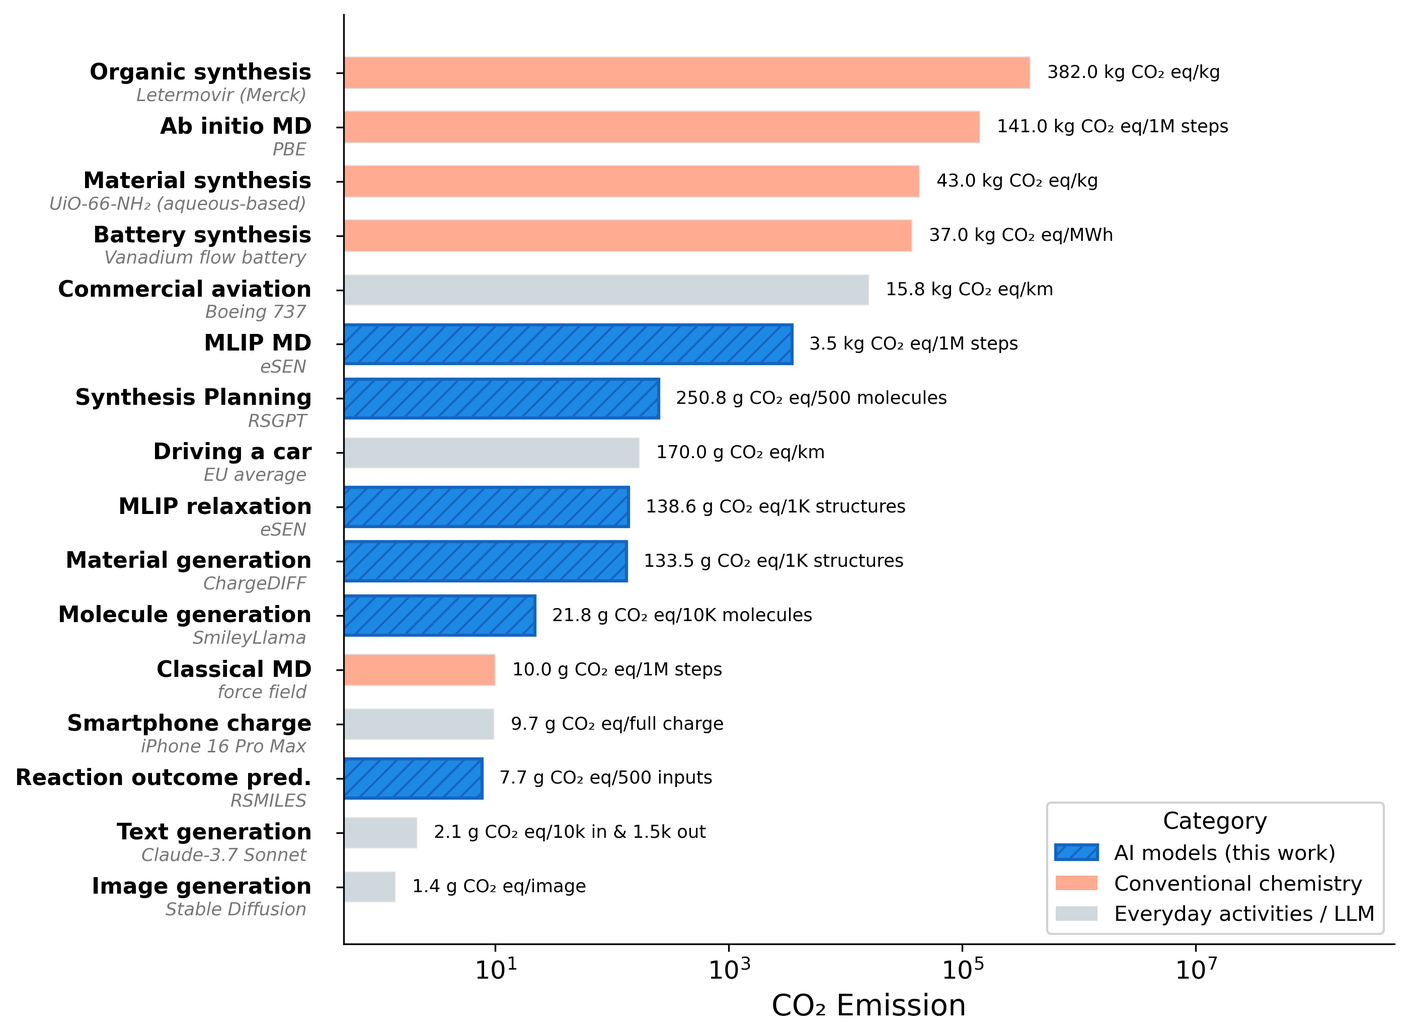
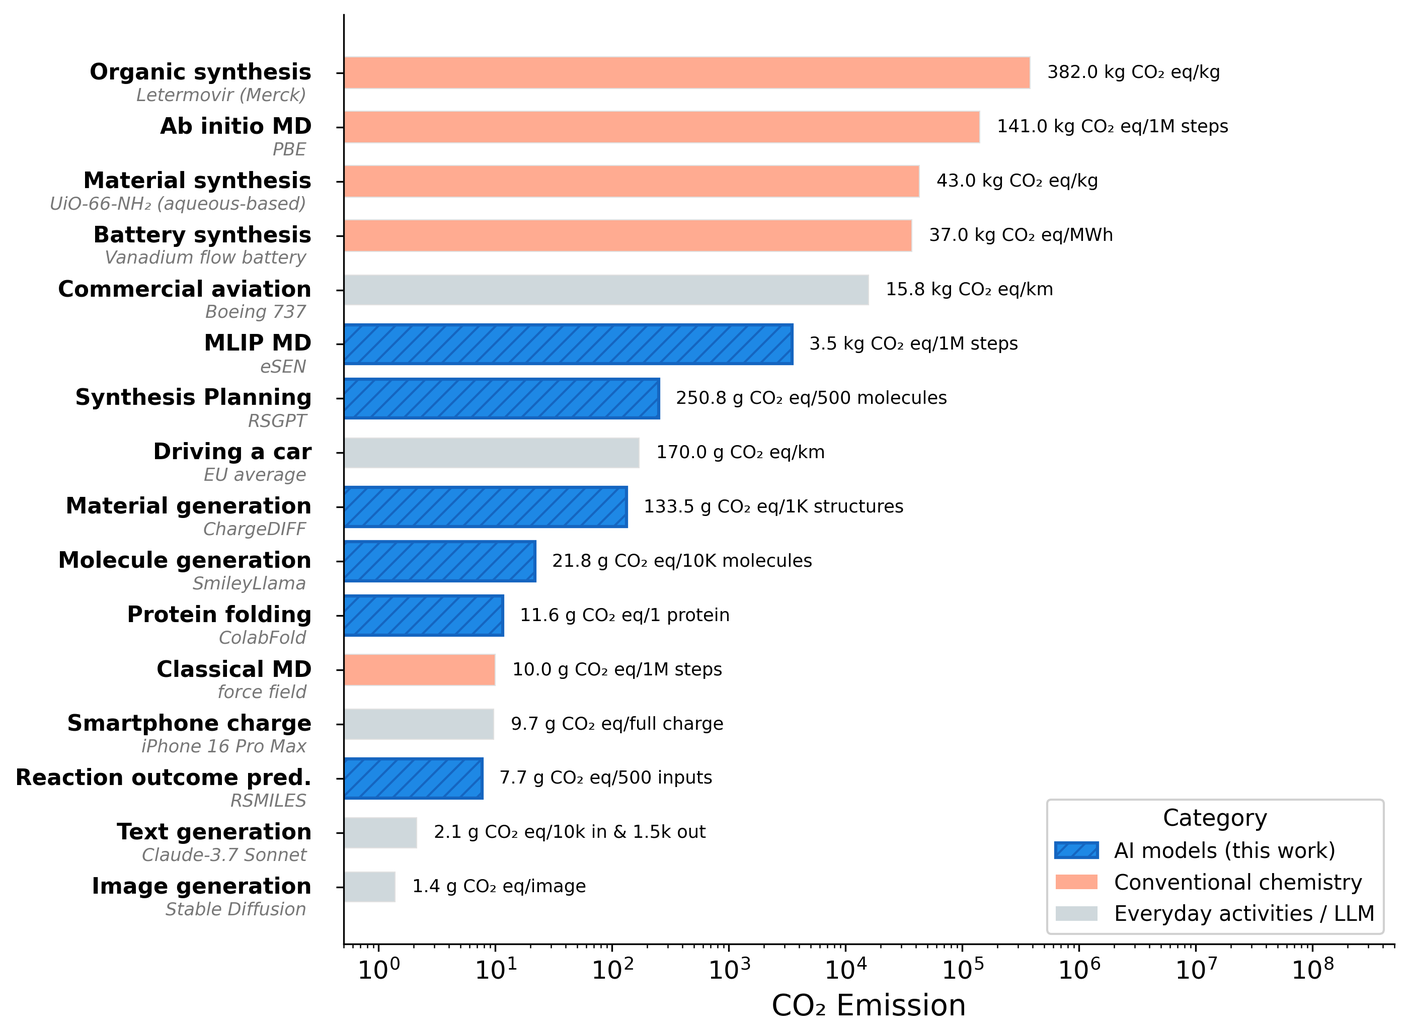
Add Protein Folding task to leaderboard, website, and figures
Integrates the protein-folding branch's 45-target CASP15/CASP16 benchmark
(8 models: AF2, ColabFold, OmegaFold, ESMFold, Chai-1, OpenFold, Boltz-2,
Protenix) as a 7th leaderboard task ("Folding").

Leaderboard data (synced across all three files per Rule 15):
- analysis/all_data.csv, docs/data.js, README.md (new "### 7. Protein
  Folding" section).
- Primary metric GDT-TS (%), secondary metric lDDT-Ca.
- Per-exp = per single protein; per-job = total over 45 targets.
- Model types reuse existing categories: GNN (AF2/ColabFold/OpenFold,
  Evoformer = graph attention), LM (ESMFold/OmegaFold protein LMs),
  Diffusion (Chai-1/Boltz-2/Protenix).

Website (docs/index.html):
- TASK_CONFIG gains a Folding entry (tab, GDT-TS (%)/lDDT-Ca columns).
- fmtMetric made value-based (sub-1 scores -> 3 decimals, else 2).
- CO2 reference chart: added Protein folding (11.6 g / 1 protein), removed
  MLIP relaxation, matching Fig 4.

Figures (plot_figures.py):
- Task grid (figs 1-3): StructOpt dropped, Folding added as 6th task,
  keeping the 6-panel layout. StructOpt stays in the leaderboard data.
- Fig 2 noname now labels baselines; widened so Forward labels don't overlap.
- Fig 6 (alt metrics) reworked into a Fig 2-style 2x3 grid + StructOpt (CPS)
  and Folding (lDDT-Ca) panels.
- Fig 4 family: Protein folding added (per single protein), MLIP relaxation
  removed; MLIP MD retained.
- Regenerated all figure variants.

preprint.tex intentionally left untracked.

diff --git a/docs/index.html b/docs/index.html
@@ -384,7 +384,7 @@
       <div class="stat-item">
         <div class="stat-icon">
           <svg width="15" height="15" fill="none" stroke="currentColor" stroke-width="2" viewBox="0 0 24 24" opacity=".7"><polygon points="12 2 2 7 12 12 22 7 12 2"/><polyline points="2 17 12 22 22 17"/><polyline points="2 12 12 17 22 12"/></svg>
-          <span class="stat-value" id="stat-tasks">6</span>
+          <span class="stat-value" id="stat-tasks">7</span>
         </div>
         <span class="stat-label">Tasks</span>
       </div>
@@ -502,6 +502,7 @@ const TASK_CONFIG = {
   MatGen:    { majorLabel: 'mSUN (%)',   minorLabel: 'SUN (%)',     color: '#2ca02c', desc: 'MP-20 · 1,000 structures',     job: '1 job = 1,000 structures' },
   StructOpt: { majorLabel: 'CPS',        minorLabel: null,          color: '#d62728', desc: 'WBM · 100 structures',         job: '1 job = 1,000 structures' },
   MDSim:     { majorLabel: 'MSD',        minorLabel: null,          color: '#9467bd', desc: 'LGPS · 75K steps × 3 seeds',  job: '1 job = 1M steps' },
+  Folding:   { majorLabel: 'GDT-TS (%)', minorLabel: 'lDDT-Cα',     color: '#8c564b', desc: 'CASP15/16 · 45 targets',      job: '1 job = 45 proteins' },
 };
 
 const ARCH_SYMBOLS = {
@@ -580,8 +581,8 @@ const GLOBAL_PARETO = computeParetoSet(ALL_DATA);
 function fmtMetric(v, task) {
   if (v === '' || v === null || v === undefined) return '—';
   const n = Number(v);
-  if (task === 'StructOpt' || task === 'MDSim') return n.toFixed(3);
-  return n.toFixed(2);
+  // Sub-1 scores (CPS, MSD, lDDT) → 3 decimals; percentages/counts → 2 decimals
+  return n < 1 ? n.toFixed(3) : n.toFixed(2);
 }
 
 function fmtTime(s) {
@@ -948,7 +949,7 @@ const REF_DATA = [
   { category: 'AI Chemical generation',  label: 'Material generation',      desc: 'MP-20 · 1K structures',         value: 270.40,  unit: '1K structures',      taskKey: 'MatGen' },
   { category: 'AI Chemical generation',  label: 'Molecule generation',      desc: 'ChEMBL 28 · 10K molecules',     value: 355.24,  unit: '10K molecules',      taskKey: 'MolGen' },
   { category: 'AI Synthesis prediction', label: 'Synthesis Planning',       desc: 'USPTO-50K · 500 molecules',     value: 403.45,  unit: '500 molecules',      taskKey: 'Retro' },
-  { category: 'AI Structure Opt',        label: 'MLIP relaxation',          desc: 'WBM · 1K structures',           value: 138.6,   unit: '1K structures',      taskKey: 'StructOpt' },
+  { category: 'AI Protein folding',      label: 'Protein folding',          desc: 'CASP15/16 · 1 protein',         value: 11.60,   unit: '1 protein',          taskKey: 'Folding' },
   { category: 'AI MD simulation',        label: 'MLIP MD',                  desc: 'LGPS · 1M steps',               value: 3486,    unit: '1M steps',           taskKey: 'MDSim' },
   { category: 'Everyday activities',     label: 'Commercial aviation',      desc: 'Boeing 737',                    value: 15800,   unit: 'km',                 taskKey: null },
   { category: 'Chemical synthesis',      label: 'Battery synthesis',        desc: 'Vanadium flow battery',         value: 37000,   unit: 'MWh',                taskKey: null },
@@ -961,13 +962,13 @@ const REF_CAT_COLORS = {
   'LLM inference':           '#CFD8DC',
   'AI Synthesis prediction': '#1E88E5',
   'AI Chemical generation':  '#1E88E5',
-  'AI Structure Opt':        '#1E88E5',
+  'AI Protein folding':      '#1E88E5',
   'AI MD simulation':        '#1E88E5',
   'Everyday activities':     '#CFD8DC',
   'Chemical simulation':     '#FFAB91',
   'Chemical synthesis':      '#FFAB91',
 };
-const AI_CATEGORIES = new Set(['AI Synthesis prediction', 'AI Chemical generation', 'AI Structure Opt', 'AI MD simulation']);
+const AI_CATEGORIES = new Set(['AI Synthesis prediction', 'AI Chemical generation', 'AI Protein folding', 'AI MD simulation']);
 
 /* ──────────────────────────────────────────────────────
    RENDER CHART — switches based on active tab

diff --git a/docs/data.js b/docs/data.js
@@ -47,4 +47,12 @@ const ALL_DATA = [
   { task: "MDSim", year: 2025, venue: "arXiv", model: "DPA3", modelType: "GNN", modelSize: "4.81M", major_metric: 0.508, minor_metric: "", inference_time_per_exp: 2087, CO2_per_exp: 38.45, CO2_per_job: 1538, baseline: false },
   { task: "MDSim", year: 2025, venue: "arXiv", model: "Nequix", modelType: "GNN", modelSize: "708K", major_metric: 0.203, minor_metric: "", inference_time_per_exp: 736, CO2_per_exp: 17.13, CO2_per_job: 685, baseline: false },
   { task: "MDSim", year: 2025, venue: "arXiv", model: "eSEN", modelType: "GNN", modelSize: "30.1M", major_metric: 0.720, minor_metric: "", inference_time_per_exp: 2780, CO2_per_exp: 87.14, CO2_per_job: 3486, baseline: false },
+  { task: "Folding", year: 2021, venue: "Nature", model: "AF2", modelType: "GNN", modelSize: "93.2M", major_metric: 59.15, minor_metric: 0.868, inference_time_per_exp: 1729.6, CO2_per_exp: 46.73, CO2_per_job: 2103.0, baseline: true },
+  { task: "Folding", year: 2022, venue: "Nat. Methods", model: "ColabFold", modelType: "GNN", modelSize: "93.2M", major_metric: 60.96, minor_metric: 0.876, inference_time_per_exp: 669.5, CO2_per_exp: 11.60, CO2_per_job: 522.2, baseline: false },
+  { task: "Folding", year: 2022, venue: "bioRxiv", model: "OmegaFold", modelType: "LM", modelSize: "795M", major_metric: 47.18, minor_metric: 0.770, inference_time_per_exp: 123.0, CO2_per_exp: 4.00, CO2_per_job: 180.1, baseline: false },
+  { task: "Folding", year: 2023, venue: "Science", model: "ESMFold", modelType: "LM", modelSize: "693M", major_metric: 52.36, minor_metric: 0.811, inference_time_per_exp: 363.2, CO2_per_exp: 5.27, CO2_per_job: 237.0, baseline: false },
+  { task: "Folding", year: 2024, venue: "bioRxiv", model: "Chai-1", modelType: "Diffusion", modelSize: "316M", major_metric: 48.79, minor_metric: 0.798, inference_time_per_exp: 1416.4, CO2_per_exp: 19.83, CO2_per_job: 892.4, baseline: false },
+  { task: "Folding", year: 2024, venue: "Nat. Methods", model: "OpenFold", modelType: "GNN", modelSize: "93.2M", major_metric: 60.84, minor_metric: 0.875, inference_time_per_exp: 596.8, CO2_per_exp: 10.61, CO2_per_job: 477.6, baseline: false },
+  { task: "Folding", year: 2025, venue: "bioRxiv", model: "Boltz-2", modelType: "Diffusion", modelSize: "521M", major_metric: 51.82, minor_metric: 0.765, inference_time_per_exp: 1180.8, CO2_per_exp: 17.70, CO2_per_job: 796.5, baseline: false },
+  { task: "Folding", year: 2025, venue: "bioRxiv", model: "Protenix", modelType: "Diffusion", modelSize: "368M", major_metric: 57.50, minor_metric: 0.871, inference_time_per_exp: 612.3, CO2_per_exp: 9.83, CO2_per_job: 442.3, baseline: false },
 ];

diff --git a/analysis/plot_figures.py b/analysis/plot_figures.py
@@ -27,7 +27,9 @@ from adjustText import adjust_text
 OUT_DIR = 'analysis/figures'
 os.makedirs(OUT_DIR, exist_ok=True)
 
-TASK_ORDER = ['MatGen', 'MolGen', 'Retro', 'Forward', 'StructOpt', 'MDSim']
+# StructOpt is kept in the leaderboard data (all_data.csv / data.js / README) but
+# omitted from the task-grid figures (Figs 1-3); MDSim is the 5th task, Folding the 6th.
+TASK_ORDER = ['MatGen', 'MolGen', 'Retro', 'Forward', 'MDSim', 'Folding']
 
 TASK_COLORS = {
     'MatGen':    '#2ca02c',
@@ -36,6 +38,7 @@ TASK_COLORS = {
     'Forward':   '#ff7f0e',
     'StructOpt': '#d62728',
     'MDSim':     '#9467bd',
+    'Folding':   '#8c564b',
 }
 
 TASK_PERF_LABEL = {
@@ -45,6 +48,7 @@ TASK_PERF_LABEL = {
     'Forward': 'Top-3 Acc (%)',
     'StructOpt': 'CPS',
     'MDSim': 'MSD',
+    'Folding': 'GDT-TS (%)',
 }
 
 ARCH_MARKERS = {
@@ -70,7 +74,7 @@ ref_data_raw = [
     ('AI Chemical generation',   'Molecule generation',      'MolGen',     'DeFoG',                       355.2,  '10K molecules'),
     ('AI Synthesis prediction',  'Synthesis Planning',       'Retro',      'RetroBridge',                 403,     '500 molecules'),
     ('AI MD simulation',         'MLIP MD',                  'MDSim',      'eSEN',                        3486,    '1M steps'),
-    ('AI Structure Opt',         'MLIP relaxation',          'StructOpt',  'eSEN',                         139,    '1K structures'),
+    ('AI Protein folding',       'Protein folding',          'Folding',    'ColabFold',                   11.60,  '1 protein'),
     ('Everyday activities',      'Commercial aviation',      None,         'Boeing 737',                  15800,   'km'),
     ('Chemical synthesis',       'Battery synthesis',        None,         'Vanadium flow battery',       37000,   'MWh'),
     ('Chemical synthesis',       'Material synthesis',       None,         'UiO-66-NH₂ (aqueous-based)',  43000,   'kg'),
@@ -87,7 +91,7 @@ REF_CATEGORY_COLORS = {
     'Chemical synthesis':        '#E53935',   # red
     'AI Chemical generation':    '#2ca02c',   # green (= MatGen)
     'AI Synthesis prediction':   '#ff7f0e',   # orange (= Forward)
-    'AI Structure Opt':          '#d62728',   # red-orange (= StructOpt)
+    'AI Protein folding':        '#8c564b',   # brown (= Folding)
     'AI MD simulation':          '#9467bd',   # purple (= MDSim)
 }
 
@@ -95,7 +99,7 @@ REF_CATEGORY_COLORS = {
 REF_LEGEND_ORDER = [
     'Everyday activities', 'LLM inference', 'Chemical simulation',
     'Chemical synthesis', 'AI Chemical generation', 'AI Synthesis prediction',
-    'AI Structure Opt', 'AI MD simulation',
+    'AI Protein folding', 'AI MD simulation',
 ]
 
 
@@ -319,7 +323,7 @@ def plot_fig2(df, co2_col='CO2_per_job', co2_label='log₁₀(CO₂/job)', nonam
     If noname=True, omits per-point labels EXCEPT for models on the Pareto front,
     and saves to *_noname.png.
     """
-    fig, axes = plt.subplots(2, 3, figsize=(20, 14))
+    fig, axes = plt.subplots(2, 3, figsize=(27, 14))
     axes = axes.flatten()
 
     for ax, task in zip(axes, TASK_ORDER):
@@ -395,8 +399,8 @@ def plot_fig2(df, co2_col='CO2_per_job', co2_label='log₁₀(CO₂/job)', nonam
             ax.scatter(row['log_co2_ratio'], row['delta_perf_pct'],
                        color=TASK_COLORS[task], marker=m, s=sz,
                        edgecolors=ec, linewidths=lw, zorder=4)
-            # In noname mode, only label models on the Pareto front
-            if noname and row['model'] not in pareto_models:
+            # In noname mode, only label models on the Pareto front (plus the baseline)
+            if noname and row['model'] not in pareto_models and not is_base:
                 continue
             label = f"{row['model']} ({row['year']})"
             pos = positions.get(row['model'], None)
@@ -811,7 +815,7 @@ def plot_fig4(df, highlight_ai=True):
         'Retro':     'Retro',
         'MolGen':    'MolGen',
         'MatGen':    'MatGen',
-        'StructOpt': 'StructOpt',
+        'Folding':   'Folding',
         'MDSim':     'MDSim',
     }
     worst_pareto = {}  # task -> (model_name, co2_per_job)
@@ -822,7 +826,8 @@ def plot_fig4(df, highlight_ai=True):
         pareto_models = _compute_pareto(grp)
         pareto_grp = grp[grp['model'].isin(pareto_models)]
         worst = pareto_grp.loc[pareto_grp['CO2_per_job'].idxmax()]
-        worst_pareto[key] = (worst['model'], worst['CO2_per_job'])
+        # Protein folding runs one protein at a time → report per-protein CO2
+        worst_pareto[key] = (worst['model'], worst['CO2_per_exp' if key == 'Folding' else 'CO2_per_job'])
 
     # (category, main_label, task_key, fallback_desc, fallback_co2, unit)
     # task_key=None for non-AI entries
@@ -844,7 +849,7 @@ def plot_fig4(df, highlight_ai=True):
     values      = [d[3] for d in ref_data]
     units       = [d[4] for d in ref_data]
     AI_CATEGORIES = {'AI Chemical generation', 'AI Synthesis prediction',
-                     'AI Structure Opt', 'AI MD simulation'}
+                     'AI Protein folding', 'AI MD simulation'}
     CHEM_CATEGORIES = {'Chemical simulation', 'Chemical synthesis'}
 
     if highlight_ai:
@@ -929,7 +934,7 @@ def plot_fig4b(df):
         'Retro':     'Retro',
         'MolGen':    'MolGen',
         'MatGen':    'MatGen',
-        'StructOpt': 'StructOpt',
+        'Folding':   'Folding',
         'MDSim':     'MDSim',
     }
     worst_pareto = {}
@@ -940,7 +945,8 @@ def plot_fig4b(df):
         pareto_models = _compute_pareto(grp)
         pareto_grp = grp[grp['model'].isin(pareto_models)]
         worst = pareto_grp.loc[pareto_grp['CO2_per_job'].idxmax()]
-        worst_pareto[key] = (worst['model'], worst['CO2_per_job'])
+        # Protein folding runs one protein at a time → report per-protein CO2
+        worst_pareto[key] = (worst['model'], worst['CO2_per_exp' if key == 'Folding' else 'CO2_per_job'])
 
     # ── Second-best models (user-specified) ──
     second_best_names = {
@@ -948,14 +954,14 @@ def plot_fig4b(df):
         'Retro':     'LocalRetro',
         'MolGen':    'REINVENT4',
         'MatGen':    'DiffCSP',
-        'StructOpt': 'NequIP',
+        'Folding':   'OpenFold',
         'MDSim':     'SevenNet',
     }
     second_best = {}
     for task, model_name in second_best_names.items():
         row = df[(df['task'] == task) & (df['model'] == model_name)]
         if not row.empty:
-            co2 = row.iloc[0]['CO2_per_job']
+            co2 = row.iloc[0]['CO2_per_exp' if task == 'Folding' else 'CO2_per_job']
             second_best[task] = (model_name, co2)
 
     # Resolve worst-Pareto entries
@@ -977,7 +983,7 @@ def plot_fig4b(df):
     units       = [d[5] for d in ref_data]
 
     AI_CATEGORIES = {'AI Chemical generation', 'AI Synthesis prediction',
-                     'AI Structure Opt', 'AI MD simulation'}
+                     'AI Protein folding', 'AI MD simulation'}
 
     # ── Colour palette ──
     ai_color       = '#1E88E5'
@@ -1079,7 +1085,7 @@ def plot_fig4_combined(df):
     # ── Compute worst Pareto per task (same as fig4 / fig4b) ──
     task_map = {
         'Forward': 'Forward', 'Retro': 'Retro', 'MolGen': 'MolGen',
-        'MatGen': 'MatGen', 'StructOpt': 'StructOpt', 'MDSim': 'MDSim',
+        'MatGen': 'MatGen', 'Folding': 'Folding', 'MDSim': 'MDSim',
     }
     worst_pareto = {}
     for task, key in task_map.items():
@@ -1089,19 +1095,20 @@ def plot_fig4_combined(df):
         pareto_models = _compute_pareto(grp)
         pareto_grp = grp[grp['model'].isin(pareto_models)]
         worst = pareto_grp.loc[pareto_grp['CO2_per_job'].idxmax()]
-        worst_pareto[key] = (worst['model'], worst['CO2_per_job'])
+        # Protein folding runs one protein at a time → report per-protein CO2
+        worst_pareto[key] = (worst['model'], worst['CO2_per_exp' if key == 'Folding' else 'CO2_per_job'])
 
     # ── Second-best models (mirror fig4b) ──
     second_best_names = {
         'Forward': 'LocalTransform', 'Retro': 'LocalRetro',
         'MolGen': 'REINVENT4', 'MatGen': 'DiffCSP',
-        'StructOpt': 'NequIP', 'MDSim': 'SevenNet',
+        'Folding': 'OpenFold', 'MDSim': 'SevenNet',
     }
     second_best = {}
     for task, model_name in second_best_names.items():
         row = df[(df['task'] == task) & (df['model'] == model_name)]
         if not row.empty:
-            second_best[task] = (model_name, row.iloc[0]['CO2_per_job'])
+            second_best[task] = (model_name, row.iloc[0]['CO2_per_exp' if task == 'Folding' else 'CO2_per_job'])
 
     # ── Resolve ref_data (carrying task_key for fig4b overlay) ──
     ref_data = []
@@ -1121,7 +1128,7 @@ def plot_fig4_combined(df):
     units       = [d[5] for d in ref_data]
 
     AI_CATEGORIES = {'AI Chemical generation', 'AI Synthesis prediction',
-                     'AI Structure Opt', 'AI MD simulation'}
+                     'AI Protein folding', 'AI MD simulation'}
     CHEM_CATEGORIES = {'Chemical simulation', 'Chemical synthesis'}
 
     # ── Palette ──
@@ -1252,7 +1259,7 @@ def plot_fig4_combined_horizontal(df):
     # ── Compute worst Pareto per task (same as fig4 / fig4b) ──
     task_map = {
         'Forward': 'Forward', 'Retro': 'Retro', 'MolGen': 'MolGen',
-        'MatGen': 'MatGen', 'StructOpt': 'StructOpt', 'MDSim': 'MDSim',
+        'MatGen': 'MatGen', 'Folding': 'Folding', 'MDSim': 'MDSim',
     }
     worst_pareto = {}
     for task, key in task_map.items():
@@ -1262,19 +1269,20 @@ def plot_fig4_combined_horizontal(df):
         pareto_models = _compute_pareto(grp)
         pareto_grp = grp[grp['model'].isin(pareto_models)]
         worst = pareto_grp.loc[pareto_grp['CO2_per_job'].idxmax()]
-        worst_pareto[key] = (worst['model'], worst['CO2_per_job'])
+        # Protein folding runs one protein at a time → report per-protein CO2
+        worst_pareto[key] = (worst['model'], worst['CO2_per_exp' if key == 'Folding' else 'CO2_per_job'])
 
     # ── Second-best models (mirror fig4b) ──
     second_best_names = {
         'Forward': 'LocalTransform', 'Retro': 'LocalRetro',
         'MolGen': 'REINVENT4', 'MatGen': 'DiffCSP',
-        'StructOpt': 'NequIP', 'MDSim': 'SevenNet',
+        'Folding': 'OpenFold', 'MDSim': 'SevenNet',
     }
     second_best = {}
     for task, model_name in second_best_names.items():
         row = df[(df['task'] == task) & (df['model'] == model_name)]
         if not row.empty:
-            second_best[task] = (model_name, row.iloc[0]['CO2_per_job'])
+            second_best[task] = (model_name, row.iloc[0]['CO2_per_exp' if task == 'Folding' else 'CO2_per_job'])
 
     # ── Resolve ref_data (carrying task_key for fig4b overlay) ──
     ref_data = []
@@ -1294,7 +1302,7 @@ def plot_fig4_combined_horizontal(df):
     units       = [d[5] for d in ref_data]
 
     AI_CATEGORIES = {'AI Chemical generation', 'AI Synthesis prediction',
-                     'AI Structure Opt', 'AI MD simulation'}
+                     'AI Protein folding', 'AI MD simulation'}
     CHEM_CATEGORIES = {'Chemical simulation', 'Chemical synthesis'}
 
     # ── Palette ──
@@ -1489,20 +1497,25 @@ MOLGEN_VUNS = {
     'DiGress': 81.18, 'REINVENT4': 85.44, 'SmileyLlama': 85.16, 'DeFoG': 81.73
 }
 
-ALT_TASK_ORDER = ['MatGen', 'MolGen', 'Retro', 'Forward']
+# StructOpt is the MLIP-family alternative to MDSim (its CPS metric); Folding's
+# alternative metric is lDDT-Cα (vs. its primary GDT-TS (%) in Figs 1-3).
+ALT_TASK_ORDER = ['MatGen', 'MolGen', 'Retro', 'Forward', 'StructOpt', 'Folding']
 ALT_LABELS = {
     'MatGen': 'SUN (%)', 'MolGen': 'VUNS (%)',
     'Retro': 'Top-10 Acc (%)', 'Forward': 'Top-1 Acc (%)',
+    'StructOpt': 'CPS', 'Folding': 'lDDT-Cα',
 }
 
 
 def plot_fig6(df, co2_col='CO2_per_job', co2_label='log₁₀(CO₂/job)', noname=False):
-    """Pareto plots using alternative metrics for 4 tasks.
+    """Pareto plots using alternative metrics, laid out like Fig 2 (2×3).
 
-    If noname=True, omits per-point labels EXCEPT for models on the Pareto front,
-    and saves to *_noname.png.
+    Includes the MLIP-family StructOpt panel (CPS) and the Folding panel
+    (TM-score). If noname=True, omits per-point labels EXCEPT for models on the
+    Pareto front (plus the baseline), and saves to *_noname.png.
     """
-    fig, axes = plt.subplots(1, 4, figsize=(28, 7))
+    fig, axes = plt.subplots(2, 3, figsize=(27, 14))
+    axes = axes.flatten()
 
     # Add alt_perf column
     df = df.copy()
@@ -1513,6 +1526,10 @@ def plot_fig6(df, co2_col='CO2_per_job', co2_label='log₁₀(CO₂/job)', nonam
             df.at[idx, 'alt_perf'] = MOLGEN_VUNS[model]
         elif task in ALT_METRICS and model in ALT_METRICS[task]:
             df.at[idx, 'alt_perf'] = ALT_METRICS[task][model]
+        elif task == 'StructOpt':
+            df.at[idx, 'alt_perf'] = row['major_metric']   # CPS
+        elif task == 'Folding':
+            df.at[idx, 'alt_perf'] = row['minor_metric']   # lDDT-Cα
 
     for ax, task in zip(axes, ALT_TASK_ORDER):
         grp = df[(df['task'] == task) & df['alt_perf'].notna()].copy()
@@ -1568,8 +1585,8 @@ def plot_fig6(df, co2_col='CO2_per_job', co2_label='log₁₀(CO₂/job)', nonam
             ax.scatter(row['log_co2_ratio'], row['delta_alt_pct'],
                        color=TASK_COLORS[task], marker=m, s=marker_size(m),
                        edgecolors=ec, linewidths=lw, zorder=4)
-            # In noname mode, only label models on the Pareto front
-            if noname and row['model'] not in pareto_models:
+            # In noname mode, only label models on the Pareto front (plus the baseline)
+            if noname and row['model'] not in pareto_models and not is_base:
                 continue
             label = f"{row['model']} ({row['year']})"
             tx6, ty6 = row['log_co2_ratio'], row['delta_alt_pct']
@@ -1605,8 +1622,8 @@ def plot_fig6(df, co2_col='CO2_per_job', co2_label='log₁₀(CO₂/job)', nonam
                                 linewidth=1.5, label='Pareto Front')
     fig.legend(handles=arch_handles + [pareto_line] + quad_handles,
                loc='lower center', ncol=6, fontsize=20, framealpha=0.9,
-               bbox_to_anchor=(0.5, -0.14))
-    fig.subplots_adjust(bottom=0.18, wspace=0.35)
+               bbox_to_anchor=(0.5, -0.02))
+    fig.subplots_adjust(left=0.08, right=0.97, top=0.95, bottom=0.14, hspace=0.35, wspace=0.3)
     fname = '6_pareto_alt_metrics_noname.png' if noname else '6_pareto_alt_metrics.png'
     out = os.path.join(OUT_DIR, fname)
     fig.savefig(out, dpi=300, bbox_inches='tight')

diff --git a/README.md b/README.md
@@ -180,6 +180,25 @@ All tasks benchmarked on the same hardware with full carbon tracking.
 
 ---
 
+### 7. Protein Folding
+
+**System:** CASP15/CASP16 unique <1000-residue monomers · **N =** 45 targets · **Metric:** GDT-TS (%) · **CO₂/job:** per 45 targets
+
+| Year | Venue        | Model     | Architecture         | Params | GDT-TS (%) | lDDT-Cα   | CO₂/exp (g) | CO₂/job (g) | Time/exp (s) | Time/job (s) |
+| ---- | ------------ | --------- | -------------------- | ------ | ---------- | --------- | ----------- | ----------- | ------------ | ------------ |
+| 2021 | Nature       | AF2       | Evoformer + MSA      | 93.2M  | 59.15      | 0.868     | 46.73       | 2,103.0     | 1,729.6      | 77,832       |
+| 2022 | Nat. Methods | ColabFold | Evoformer + MMseqs2  | 93.2M  | **60.96**  | **0.876** | 11.60       | 522.2       | 669.5        | 30,126       |
+| 2022 | bioRxiv      | OmegaFold | PLM + Geoformer      | 795M   | 47.18      | 0.770     | **4.00**    | **180.1**   | **123.0**    | **5,535**    |
+| 2023 | Science      | ESMFold   | ESM-2 LM + folding   | 693M   | 52.36      | 0.811     | 5.27        | 237.0       | 363.2        | 16,345       |
+| 2024 | bioRxiv      | Chai-1    | Diffusion (AF3-like) | 316M   | 48.79      | 0.798     | 19.83       | 892.4       | 1,416.4      | 63,738       |
+| 2024 | Nat. Methods | OpenFold  | Evoformer + MSA      | 93.2M  | 60.84      | 0.875     | 10.61       | 477.6       | 596.8        | 26,854       |
+| 2025 | bioRxiv      | Boltz-2   | Diffusion (AF3-like) | 521M   | 51.82      | 0.765     | 17.70       | 796.5       | 1,180.8      | 53,137       |
+| 2025 | bioRxiv      | Protenix  | Diffusion (AF3-like) | 368M   | 57.50      | 0.871     | 9.83        | 442.3       | 612.3        | 27,555       |
+
+> GDT-TS (%) is the primary ranking metric; lDDT-Cα is the secondary metric. Per-exp values are per single target; per-job values are totals over all 45 targets. Carbon uses CodeCarbon offline world-average accounting (475 gCO₂/kWh) on 3 × NVIDIA RTX A5000 (24 GB). Boltz-2's training cutoff (2023-06-01) postdates the 33 CASP15 targets — interpret with a potential leakage caveat.
+
+---
+
 ## Key Insights
 
 - **Simpler models dominate the efficiency frontier:** In every task, at least one GNN or small LM achieves near-SOTA accuracy at 10–100× lower CO₂ than the best-performing model
